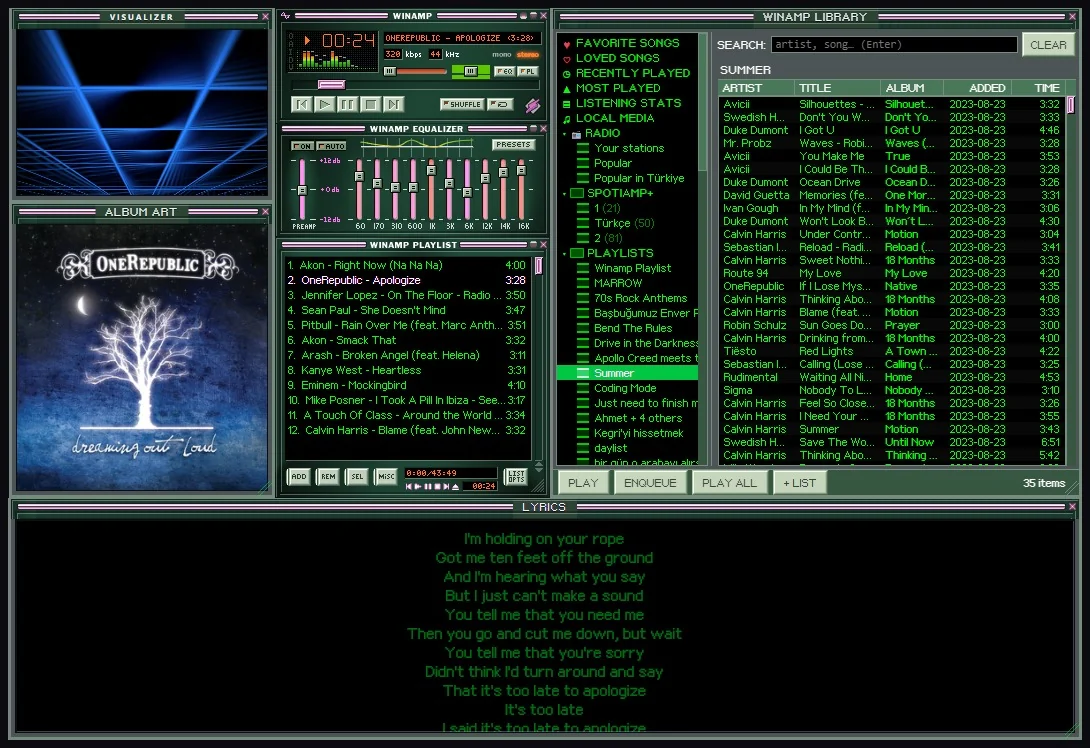
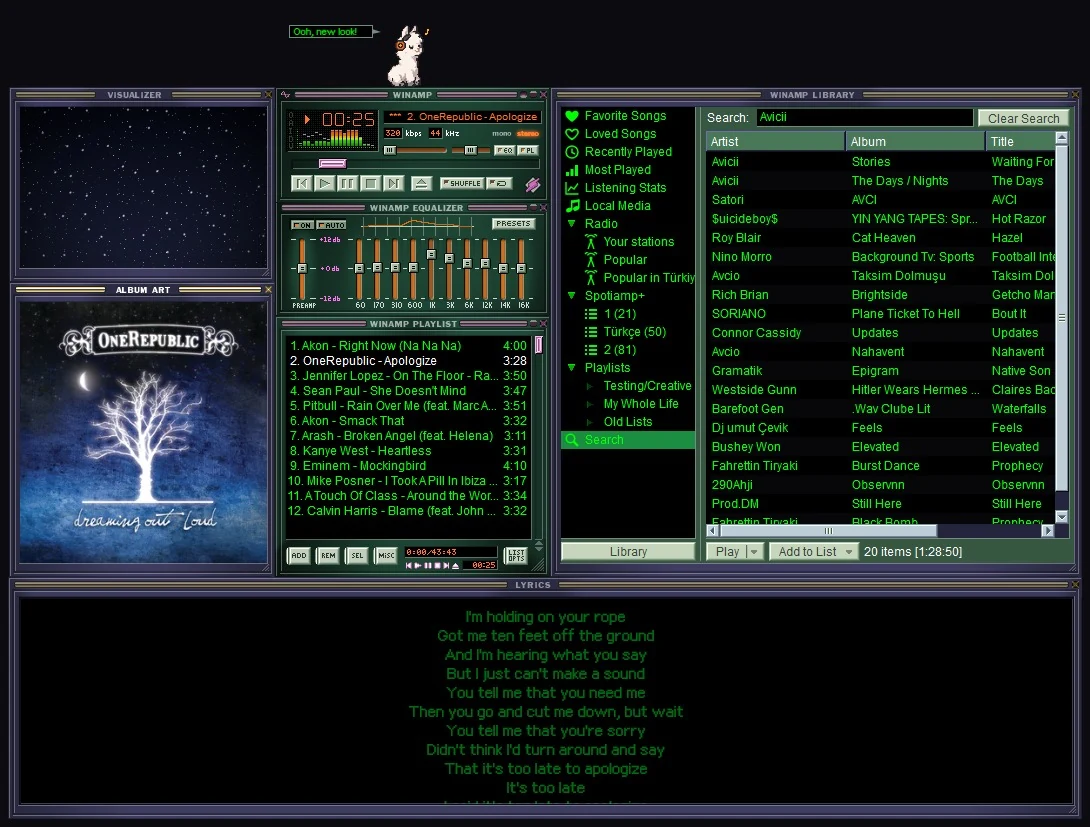
0.7.10

diff --git a/index.html b/index.html
@@ -62,11 +62,11 @@
         </a>
         <a class="button ghost big" href="https://github.com/fdeox/spotiamp-plus">View on GitHub</a>
       </div>
-      <p class="meta"><span class="version">v0.7.9</span> · free · MIT license<span class="stars" hidden> · <a href="https://github.com/fdeox/spotiamp-plus/stargazers">★ <span class="star-count"></span> on GitHub</a></span> · <a href="https://discord.gg/8Rq5Xycny4">join the Discord</a></p>
+      <p class="meta"><span class="version">v0.7.10</span> · free · MIT license<span class="stars" hidden> · <a href="https://github.com/fdeox/spotiamp-plus/stargazers">★ <span class="star-count"></span> on GitHub</a></span> · <a href="https://discord.gg/8Rq5Xycny4">join the Discord</a></p>
     </div>
     <figure class="screen" aria-label="Spotiamp+ in its skins">
       <div class="screen-glow" aria-hidden="true"></div>
-      <img class="shot on" src="assets/skin-spotiamp.webp" alt="Spotiamp+ in its own skin, every window open" width="1090" height="748">
+      <img class="shot on" src="assets/skin-spotiamp.webp" alt="Spotiamp+ in its own skin, every window open" width="1090" height="827">
       <figcaption><span class="lcd">SPOTIAMP+</span></figcaption>
     </figure>
   </header>
@@ -74,7 +74,7 @@
   <section class="strip" aria-label="In short">
     <div><b>11</b><span>skins built in</span></div>
     <div><b>1000s</b><span>more in the Skin Museum</span></div>
-    <div><b>534</b><span>MilkDrop presets</span></div>
+    <div><b>537</b><span>MilkDrop presets</span></div>
     <div><b>10</b><span>band equalizer</span></div>
     <div><b>0 €</b><span>forever, open source</span></div>
   </section>
@@ -82,8 +82,8 @@
   <section id="skins" class="section">
     <div class="head">
       <p class="kicker">Skins</p>
-      <h2>Every classic Winamp skin. <span class="grad">Every window.</span></h2>
-      <p>Eleven come with it. Thousands more are one click away in the built-in Skin Museum, and any Winamp 2 skin (<code>.wsz</code>) you have works too. Skins dress every window, the Library included: their cursors, their window shapes, their titlebars and fonts.</p>
+      <h2>Every Winamp skin. <span class="grad">Every window.</span></h2>
+      <p>Eleven come with it. Thousands more are one click away in the built-in Skin Museum, any Winamp 2 skin (<code>.wsz</code>) you have works too, and so do Winamp 5's modern skins (<code>.wal</code>). They look the way Winamp 5.666 drew them, matched side by side with the real thing, and they dress every window, the Library included: their cursors, their window shapes, their titlebars and fonts.</p>
     </div>
     <div class="skin-picker">
       <div class="chips" role="tablist" aria-label="Pick a skin">
@@ -100,9 +100,13 @@
         <button class="chip" data-skin="emerald" role="tab">Emerald</button>
       </div>
       <figure class="skin-view">
-        <img src="assets/skin-spotiamp.webp" alt="Spotiamp+ in the Spotiamp+ skin" width="1090" height="748" loading="lazy">
+        <img src="assets/skin-spotiamp.webp" alt="Spotiamp+ in the Spotiamp+ skin" width="1090" height="827" loading="lazy">
       </figure>
       <p class="credit">The Classified skins are by Victhor; the Sony and Nucleo skins by their authors. All rights stay with them.</p>
+      <figure class="skin-view">
+        <img src="assets/modern-skins.webp" alt="Winamp 5's modern skins in Spotiamp+: Winamp Modern, Big Bento and more, the Library inside each skin's own Media Library" width="980" height="588" loading="lazy">
+      </figure>
+      <p class="credit">Winamp 5's modern skins: Winamp Modern, Big Bento and thousands more, with their own windows, playlist and equalizer driving Spotiamp+. Drawn by Webamp Modern's engine.</p>
     </div>
   </section>
 
@@ -113,7 +117,7 @@
     <div class="text">
       <p class="kicker">MilkDrop</p>
       <h2>The visuals you remember, <span class="grad">for real.</span></h2>
-      <p>Real MilkDrop presets, drawn by projectM and moving with every beat. <b>534 presets</b> come with it, 183 of them by Incubo, among them takes on Spotiamp+'s own patterns. Press <kbd>M</kbd> in the visualizer, double-click for full screen, heart your favourites, or drop in your own <code>.milk</code> files.</p>
+      <p>Real MilkDrop presets, drawn by projectM and moving with every beat. <b>537 presets</b> come with it, 183 of them by Incubo, among them takes on Spotiamp+'s own patterns, and three endless underground trips of our own in the spirit of Geiss' Monkey. Press <kbd>M</kbd> in the visualizer, double-click for full screen, heart your favourites, or drop in your own <code>.milk</code> files.</p>
       <p>Prefer something lighter? The visualizer has its own patterns too, and the main window's spectrum is drawn the Winamp way, in the skin's own colours.</p>
     </div>
   </section>
@@ -135,11 +139,11 @@
     <div class="cards three">
       <article class="card">
         <h3>Spotify</h3>
-        <p>Premium plays right in Spotiamp+. A Free account gets Free Mode: Spotiamp+ becomes the Winamp face of the Spotify app and drives it, with the song's lyrics and cover. Your playlists, Liked Songs and search are all in the Library.</p>
+        <p>Premium plays right in Spotiamp+; if Spotify refuses an account's songs, Spotify Soloist, Spotify's own player, plays them, set up once. A Free account gets Free Mode: Spotiamp+ becomes the Winamp face of the Spotify app and drives it, with the song's lyrics and cover. Your playlists, Liked Songs and search are all in the Library.</p>
       </article>
       <article class="card">
         <h3>Local Media</h3>
-        <p>Add your music folders once and every song is in the Library, with artist, album and length, to sort and filter as you type. MP3, FLAC, M4A, WAV, OGG and Opus, next to your Spotify songs.</p>
+        <p>Add your music folders once and every song is in the Library, Winamp's own Media Library, with its artist and album filters, ratings and play counts, to sort and search. MP3, FLAC, M4A, WAV, OGG, Opus and WMA, next to your Spotify songs.</p>
       </article>
       <article class="card">
         <h3>Internet radio</h3>
@@ -147,7 +151,7 @@
       </article>
     </div>
     <div class="shots two">
-      <img src="assets/library-local.webp" alt="Local Media in the Library" loading="lazy">
+      <img src="assets/library-local.webp" alt="Local Media in Winamp's Media Library, with its artist and album filters" loading="lazy">
       <img src="assets/library-radio.webp" alt="The Library's Radio" loading="lazy">
     </div>
   </section>
@@ -177,10 +181,10 @@
       </article>
       <article class="tile">
         <img class="px" src="assets/win-playlist.webp" alt="The playlist window" width="550" height="522" loading="lazy">
-        <div><h3>The playlist</h3><p>Drag songs in from anywhere, find one with <kbd>J</kbd>, queue one with <kbd>Q</kbd>, and save your lists.</p></div>
+        <div><h3>The playlist</h3><p>Winamp's own playlist editor. Drag songs in from anywhere, find one with <kbd>J</kbd>, queue one with <kbd>Q</kbd>, and save your lists.</p></div>
       </article>
       <article class="tile full">
-        <img class="px" src="assets/win-lyrics.webp" alt="The lyrics window" width="1074" height="112" loading="lazy">
+        <img class="px" src="assets/win-lyrics.webp" alt="The lyrics window" width="1074" height="242" loading="lazy">
         <div><h3>Synced lyrics</h3><p>The words light up as they're sung, for Spotify songs, your own files and what the radio plays. Three sizes; click a line to jump there.</p></div>
       </article>
     </div>
@@ -216,7 +220,7 @@
       <p class="kicker">Questions</p>
       <h2>Good to know</h2>
     </div>
-    <details><summary>Do I need Spotify Premium?</summary><p>For Spotiamp+ to play the music itself, yes: that only works with Premium. A Free account gets Free Mode, where Spotiamp+ drives the official Spotify app (keep it open) and the Winamp windows show and control what it plays, with its lyrics and cover. Your own files and the radio work either way.</p></details>
+    <details><summary>Do I need Spotify Premium?</summary><p>For Spotiamp+ to play the music itself, yes: that only works with Premium. A Free account gets Free Mode, where Spotiamp+ drives the official Spotify app (keep it open) and the Winamp windows show and control what it plays, with its lyrics and cover. If Spotify refuses a Premium account's songs (it does to some newer ones, in every app built like Spotiamp+), Spotiamp+ offers Spotify Soloist, Spotify's own player, and they play right in the app. Your own files and the radio work either way.</p></details>
     <details><summary>Windows says it protected my PC. Is it safe?</summary><p>Spotiamp+ isn't code-signed (certificates are costly), so SmartScreen warns about any new download like it. Click <b>More info</b>, then <b>Run anyway</b>. The whole source is open on GitHub, and every release is built from it.</p></details>
     <details><summary>Does it see my Spotify password?</summary><p>No. You log in on Spotify's own page in your browser, and Spotiamp+ only gets a token. Nothing about you is sent anywhere else: see the <a href="https://github.com/fdeox/spotiamp-plus/blob/main/PRIVACY.md">privacy policy</a>.</p></details>
     <details><summary>Is this made by Spotify or Winamp?</summary><p>No. Spotiamp+ is an independent, open source project, not affiliated with or endorsed by Spotify or Winamp. It grew out of Ted Steen's <a href="https://github.com/tedsteen/Spotiamp">Spotiamp</a>.</p></details>
@@ -235,7 +239,7 @@
   </section>
 
   <footer>
-    <p>Spotiamp+ is free software under the MIT license, made by <a href="https://github.com/fdeox">fdeox</a>. MilkDrop by projectM, presets by their authors and Incubo.</p>
+    <p>Spotiamp+ is free software under the MIT license, made by <a href="https://github.com/fdeox">fdeox</a>. MilkDrop by projectM, presets by their authors and Incubo. Modern skins drawn by Webamp Modern.</p>
     <p class="small">Not affiliated with or endorsed by Spotify AB or Winamp. Spotify is a trademark of Spotify AB.</p>
     <p class="small more"><a href="winamp-for-spotify/">Winamp for Spotify</a> · <a href="spotify-winamp-skins/">Winamp skins for Spotify</a> · <a href="milkdrop-for-spotify/">MilkDrop for Spotify</a> · <a href="spotify-equalizer-windows/">A Spotify equalizer for Windows</a></p>
     <p class="small"><a href="https://github.com/fdeox/spotiamp-plus">GitHub</a> · <a href="https://discord.gg/8Rq5Xycny4">Discord</a> · <a href="https://github.com/fdeox/spotiamp-plus/blob/main/PRIVACY.md">Privacy</a></p>

diff --git a/milkdrop-for-spotify/index.html b/milkdrop-for-spotify/index.html
@@ -4,11 +4,11 @@
   <meta charset="utf-8">
   <meta name="viewport" content="width=device-width, initial-scale=1">
   <title>MilkDrop for Spotify: real MilkDrop visuals for your Spotify music</title>
-  <meta name="description" content="MilkDrop, the visualizer that made Winamp famous, moving to your Spotify music. Spotiamp+ draws 534 real MilkDrop presets with projectM, full screen. Free and open source, for Windows.">
+  <meta name="description" content="MilkDrop, the visualizer that made Winamp famous, moving to your Spotify music. Spotiamp+ draws 537 real MilkDrop presets with projectM, full screen. Free and open source, for Windows.">
   <link rel="canonical" href="https://fdeox.github.io/spotiamp-plus/milkdrop-for-spotify/">
   <meta property="og:type" content="article">
   <meta property="og:title" content="MilkDrop for Spotify: real MilkDrop visuals for your Spotify music">
-  <meta property="og:description" content="MilkDrop, the visualizer that made Winamp famous, moving to your Spotify music. Spotiamp+ draws 534 real MilkDrop presets with projectM, full screen. Free and open source, for Windows.">
+  <meta property="og:description" content="MilkDrop, the visualizer that made Winamp famous, moving to your Spotify music. Spotiamp+ draws 537 real MilkDrop presets with projectM, full screen. Free and open source, for Windows.">
   <meta property="og:url" content="https://fdeox.github.io/spotiamp-plus/milkdrop-for-spotify/">
   <meta property="og:image" content="https://fdeox.github.io/spotiamp-plus/assets/social.jpg">
   <meta name="twitter:card" content="summary_large_image">
@@ -42,7 +42,7 @@
   <article class="prose">
 
     <figure class="wide-shot"><img src="../assets/milkdrop.webp" alt="MilkDrop moving with the music, full screen" width="480" height="291"></figure>
-    <h2>534 presets, ready to go</h2>
+    <h2>537 presets, ready to go</h2>
     <p>Picked from the Cream of the Crop collection to run smoothly, plus 183 by Incubo, among them his takes on Spotiamp+'s own patterns. Press <kbd>M</kbd> in the visualizer and they move with every beat.</p>
     <h2>Make it yours</h2>
     <ul class="ticks">

diff --git a/winamp-for-spotify/index.html b/winamp-for-spotify/index.html
@@ -45,9 +45,9 @@
     <h2>What you get</h2>
     <ul class="ticks">
       <li><b>Winamp's windows</b>: the main window, the equalizer and the playlist, docking to each other, plus a Library, lyrics, album art and a visualizer.</li>
-      <li><b>Real Winamp skins</b>: eleven built in, thousands more from the Skin Museum, and any Winamp 2 skin (<code>.wsz</code>) you have.</li>
+      <li><b>Real Winamp skins</b>: eleven built in, thousands more from the Skin Museum, any Winamp 2 skin (<code>.wsz</code>) you have and Winamp 5's modern skins (<code>.wal</code>), the way Winamp 5.666 drew them.</li>
       <li><b>The keys</b>: <kbd>Z</kbd> <kbd>X</kbd> <kbd>C</kbd> <kbd>V</kbd> <kbd>B</kbd>, arrows for volume and seeking, <kbd>J</kbd> to find a song, <kbd>Ctrl</kbd>+<kbd>D</kbd> for double size.</li>
-      <li><b>MilkDrop</b>: 534 real MilkDrop presets, full screen.</li>
+      <li><b>MilkDrop</b>: 537 real MilkDrop presets, full screen.</li>
     </ul>
     <h2>How it plays Spotify</h2>
     <p>With Spotify Premium, Spotiamp+ plays the music itself, through librespot, an open source Spotify library. That's why the equalizer, the visualizers and MilkDrop all get the sound. You log in on Spotify's own page; Spotiamp+ never sees your password.</p>

diff --git a/spotify-winamp-skins/index.html b/spotify-winamp-skins/index.html
@@ -56,7 +56,7 @@
     <h2>The whole skin, not just the colours</h2>
     <p>A skin brings its mouse cursors, its window shapes (rounded or cut-out edges), its titlebars with the title in its own letters, the spectrum's colours and, if you like, its font for the playlist and the Library. The Library, lyrics and album art windows wear it too.</p>
     <h2>Which skins work</h2>
-    <p>Classic Winamp 2 skins (<code>.wsz</code>), which is nearly all of them. Winamp 5's modern skins (<code>.wal</code>) are small programs of their own and don't load.</p>
+    <p>Classic Winamp 2 skins (<code>.wsz</code>), which is nearly all of them, and Winamp 5's modern skins (<code>.wal</code>): Winamp Modern, Big Bento and thousands more, with their own windows, playlist and equalizer. Both look the way Winamp 5.666 drew them. A few modern skins use parts of Winamp Spotiamp+ doesn't have yet; those say so and the classic look comes back.</p>
 
   </article>
 
